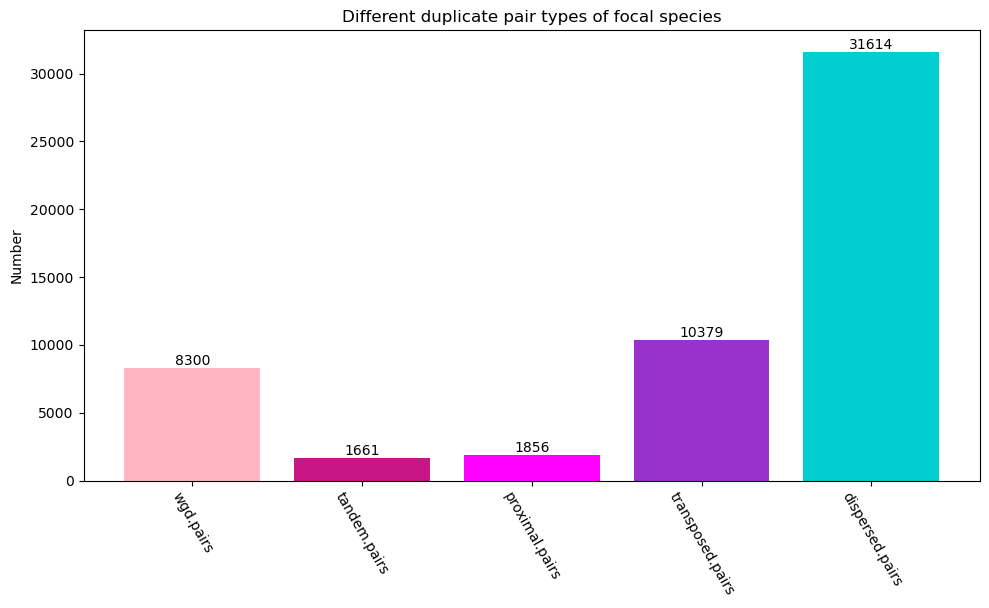
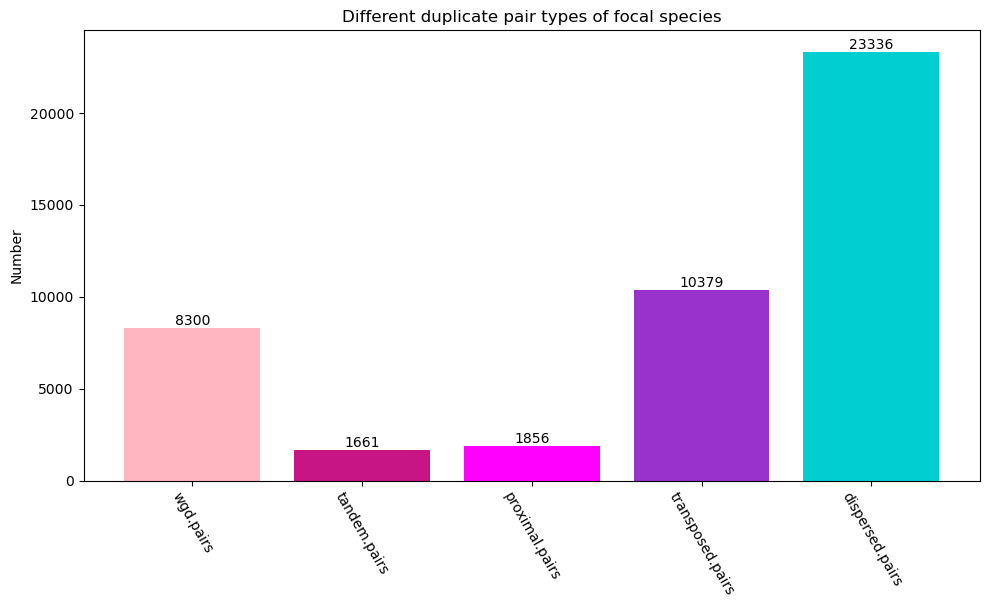
final class_gene

diff --git a/quota_anchor/lib/classification_gene.py b/quota_anchor/lib/classification_gene.py
@@ -128,6 +128,7 @@ def transposed_pre_df(ref_gene, ref_chr, ref_order, ref_start, query_gene, query
     return pre_df
 
 def transposed_pre_df_unique(ref_gene, ref_chr, ref_order, ref_start, query_gene, query_chr, query_order, query_start, bitscore_dict, identity_dict, pre_df, line_bitscore, line_identity, anc, homo_gn_md):
+    # TODO:
     if not anc[ref_gene] and anc[query_gene] and homo_gn_md[ref_gene] not in [1, 2, 3] and homo_gn_md[query_gene] not in [2, 3]:
         try:
             avg_bs = (float(bitscore_dict[query_gene + '\t' + ref_gene]) + float(
@@ -155,8 +156,8 @@ def transposed_pre_df_unique(ref_gene, ref_chr, ref_order, ref_start, query_gene
                 pre_df.append([query_gene, query_chr, query_order, query_start, ref_gene, ref_chr, ref_order, ref_start, float(line_bitscore), float(line_identity)])
     return pre_df
 
-def get_used_dict(wgd_pair_set, tandem_pair_set, proximal_pair_set, transposed_pair_set, used_gp_dict):
-    used_gp_set = wgd_pair_set.union(tandem_pair_set, proximal_pair_set, transposed_pair_set)
+def get_used_dict(wgd_pair_set, tandem_pair_set, fake_proximal_pair_set, transposed_pair_set, used_gp_dict):
+    used_gp_set = wgd_pair_set.union(tandem_pair_set, fake_proximal_pair_set, transposed_pair_set)
     for pair in used_gp_set:
         used_gp_dict[pair] = True
     return used_gp_dict
@@ -295,6 +296,7 @@ class ClassGene:
             for line in data:
                 # refGene refChr refId refStart refEnd refStrand// queryGene queryChr queryId queryStart queryEnd  queryStrand// bitscore identity
                 ref_gene, ref_chr, ref_order, ref_start, query_gene, query_chr, query_order, query_start = read_data_line(line)
+                # Remove the constraint that the gene pair cannot have been used by previous process
                 tandem_condition, homo_gn_md, anc, used_gp_dict = tandem_init(ref_gene, ref_chr, ref_order, query_gene, query_chr, query_order, homo_gn_md, anc, used_gp_dict)
 
                 if tandem_condition:
@@ -316,6 +318,7 @@ class ClassGene:
                             tandem_pair_file.write(query_gene + "\t" + output_prefix + "-" + query_chr + "-" + query_order + "-" + query_start + "\t" +
                                                    ref_gene + "\t" + output_prefix + "-" + ref_chr + "-" + ref_order + "-" + ref_start + "\n")
                             tandem_pair_number += 1
+                            # Remove the constraint that the gene cannot be the wgd gene
                             tandem_gene_set, tandem_gene_number, homo_gn_md = write_gene_to_file(ref_gene, ref_chr, ref_order, ref_start, homo_gn_md,
                                                                                                 tandem_gene_file, tandem_gene_set, output_prefix, tandem_gene_number, mode)
                             tandem_gene_set, tandem_gene_number, homo_gn_md = write_gene_to_file(query_gene, query_chr, query_order, query_start, homo_gn_md,
@@ -323,13 +326,14 @@ class ClassGene:
                 bar()
         tandem_gene_file.close()
         tandem_pair_file.close()
+
         return homo_gn_md, tandem_pair_set, tandem_pair_number, tandem_gene_number, anc, used_gp_dict
 
     @staticmethod
     def proximal_process(data, proximal_pair_file, proximal_gene_file, output_prefix, proximal_threshold, homo_gn_md):
         logger.info('Identify proximal genes/pairs start.')
         mode = 3
-        proximal_gene_set, proximal_pair_set = set(), set()
+        proximal_gene_set, fake_proximal_pair_set = set(), set()
         proximal_gene_number, proximal_pair_number = 0, 0
         proximal_pre_df = []
         
@@ -346,6 +350,7 @@ class ClassGene:
                 ref_gene, ref_chr, ref_order, ref_start, query_gene, query_chr, query_order, query_start = read_data_line(line)
                 proximal_condition1 = ref_chr == query_chr
                 proximal_condition2 = 1 < abs(int(ref_order) - int(query_order)) <= proximal_threshold
+                # Remove the constraint that the gene pair cannot have been used by previous process
                 if proximal_condition2 and proximal_condition1:
                     if int(ref_order) - int(query_order) < 0:
                         proximal_pre_df.append([ref_gene, ref_chr, ref_order, ref_start, query_gene, query_chr, query_order, query_start ,int(query_order) - int(ref_order)])
@@ -355,6 +360,12 @@ class ClassGene:
 
         df = pd.DataFrame(proximal_pre_df, columns=['Duplicate1', 'chr1', 'order1', 'start1', 'Duplicate2', 'chr2', 'order2' ,'start2', 'Distance'])
         df = df.drop_duplicates(subset=['Duplicate1', 'Duplicate2'])
+
+        df['pair'] = df['Duplicate1'] + '\t' + df['Duplicate2']
+        df['pair_r'] = df['Duplicate2'] + '\t' + df['Duplicate1']
+        fake_proximal_pair_set.update(df['pair'])
+        fake_proximal_pair_set.update(df['pair_r'])
+
         min_values = df.groupby('Duplicate1')['Distance'].transform('min')
         df_filtered = df[df['Distance'] == min_values]
         df_filtered.reset_index(drop=True, inplace=True)
@@ -363,11 +374,10 @@ class ClassGene:
         time_now = dt.strftime('%Y/%m/%d %H:%M:%S')
         with alive_bar(len(df_filtered), title=f"[{time_now} INFO Step two]", bar="bubbles", spinner="waves") as bar:
             for index, line in df_filtered.iterrows():
-                dup_gene1, chr1, order1, start1, dup_gene2, chr2, order2, start2, distance = list(line)
-                proximal_pair_set.add(dup_gene1 + "\t" + dup_gene2)
-                proximal_pair_set.add(dup_gene2 + "\t" + dup_gene1)
+                dup_gene1, chr1, order1, start1, dup_gene2, chr2, order2, start2, distance, _, _ = list(line)
                 proximal_pair_file.write(dup_gene1 + "\t" + output_prefix + "-" + chr1 + "-" + order1 + "-" + start1
                                     + "\t" + dup_gene2 + "\t" + output_prefix + "-" + chr2 + "-" + order2 + "-" + start2 + "\n")
+                # Remove the constraint that the gene cannot be the wgd gene
                 proximal_gene_set, proximal_gene_number, homo_gn_md = write_gene_to_file(dup_gene1, chr1, order1, start1, homo_gn_md,
                                                                                             proximal_gene_file, proximal_gene_set, output_prefix, proximal_gene_number, mode)
                 proximal_gene_set, proximal_gene_number, homo_gn_md = write_gene_to_file(dup_gene2, chr2, order2 ,start2, homo_gn_md,
@@ -381,7 +391,7 @@ class ClassGene:
         else:
             proximal_pair_number = index + 1
 
-        return homo_gn_md, proximal_pair_set, proximal_pair_number, proximal_gene_number
+        return homo_gn_md, fake_proximal_pair_set, proximal_pair_number, proximal_gene_number
 
     @staticmethod
     def transposed_process(wgd_gene_set, query_ref_collinearity, data, transposed_pair_file, transposed_gene_file, output_prefix, seg_anc, proximal_threshold, homo_gn_md, anc):
@@ -422,6 +432,7 @@ class ClassGene:
                     if abs(int(ref_order) - int(query_order)) > proximal_threshold:
                         pre_df = transposed_pre_df(ref_gene, ref_chr, ref_order, ref_start, query_gene, query_chr, query_order, query_start, bitscore_dict, identity_dict, pre_df, line[12], line[13], anc, homo_gn_md)
                 bar()
+
             df = pd.DataFrame(pre_df, columns=['Duplicate', 'chr1', 'order1' ,'start1', 'Parental', 'chr2', 'order2' ,'start2', 'bitscore', 'identity'])
             df = df.drop_duplicates(subset=['Duplicate', 'Parental'])
             max_values = df.groupby('Duplicate')['bitscore'].transform('max')
@@ -496,10 +507,13 @@ class ClassGene:
         with alive_bar(len(df_filtered), title=f"[{time_now} INFO] Step two", bar="bubbles", spinner="waves") as bar:
             for index, line in df_filtered.iterrows():
                 dup_gene1, chr1, order1 ,start1, dup_gene2, chr2, order2 ,start2, bitscore, identity = list(line)
-                dispersed_pair_set.add(dup_gene1 + '\t' + dup_gene2)
-                dispersed_pair_set.add(dup_gene2 + '\t' + dup_gene1)
-                dispersed_pair_file.write(dup_gene2 + "\t" + output_prefix + "-" + chr2 + "-" + order2 + "-" + start2 + "\t" +
-                                          dup_gene1 + "\t" + output_prefix + "-" + chr1 + "-" + order1 + "-" + start1 + "\n")
+                if dup_gene2 + '\t' + dup_gene1 not in dispersed_pair_set:
+                    # rm ab ba
+                    dispersed_pair_number += 1
+                    dispersed_pair_file.write(dup_gene2 + "\t" + output_prefix + "-" + chr2 + "-" + order2 + "-" + start2 + "\t" +
+                                              dup_gene1 + "\t" + output_prefix + "-" + chr1 + "-" + order1 + "-" + start1 + "\n")
+                    dispersed_pair_set.add(dup_gene1 + '\t' + dup_gene2)
+                    dispersed_pair_set.add(dup_gene2 + '\t' + dup_gene1)
                 if homo_gn_md[dup_gene1] not in [1, 2, 3, 4] and dup_gene1 not in dispersed_gene_set:
                     dispersed_gene_set.add(dup_gene1)
                     dispersed_gene_file.write(dup_gene1 + "\t" + output_prefix + "-" + chr1 + "-" + order1 + "-" + start1 + "\n")
@@ -514,8 +528,6 @@ class ClassGene:
 
         if len(df_filtered) == 0:
             dispersed_pair_number = 0
-        else:
-            dispersed_pair_number = index + 1
         return dispersed_gene_set, dispersed_pair_number, dispersed_gene_number
 
     @staticmethod
@@ -592,8 +604,9 @@ class ClassGene:
         homo_gn_md, tandem_pair_set, tandem_pair_number, tandem_gene_number, anc, used_gp_dict  = self.tandem_process(data, self.tandem_pair_file, self.tandem_gene_file, self.output_prefix)
         logger.info("Identify tandem genes/pairs finished!")
         #fourth
+
         homo_gn_md = self.merge_mode(homo_gn_md, wgd_md)
-        homo_gn_md, proximal_pair_set, proximal_pair_number, proximal_gene_number = self.proximal_process(data, self.proximal_pair_file, self.proximal_gene_file, self.output_prefix,
+        homo_gn_md, fake_proximal_pair_set, proximal_pair_number, proximal_gene_number = self.proximal_process(data, self.proximal_pair_file, self.proximal_gene_file, self.output_prefix,
                                                                             self.proximal_max_distance, homo_gn_md)
         logger.info("Identify proximal genes/pairs finished!")
         #fifth
@@ -602,7 +615,7 @@ class ClassGene:
               self.seg_anc, self.proximal_max_distance, homo_gn_md, anc)
         logger.info("Identify transposed genes/pairs finished!")
         #sixth
-        used_gp_dict = get_used_dict(wgd_pair_set, tandem_pair_set, proximal_pair_set, transposed_pair_set, used_gp_dict)
+        used_gp_dict = get_used_dict(wgd_pair_set, tandem_pair_set, fake_proximal_pair_set, transposed_pair_set, used_gp_dict)
         _, dispersed_pair_number, dispersed_gene_number = self.dispersed_process(data, self.dispersed_pair_file, self.dispersed_gene_file, self.output_prefix, homo_gn_md, used_gp_dict, bitscore_dict, identity_dict)
         logger.info("Identify dispersed genes/pairs finished!")
         #seventh
@@ -627,7 +640,7 @@ class ClassGene:
                        [self.wgd_pair_file, self.tandem_pair_file, self.proximal_pair_file, self.transposed_pair_file, self.dispersed_pair_file])
         logger.info("Count and visualize the number of genes and gene pairs!")
         #plot
-        base.ClsVis(self.stats_file, [self.stats_file + ".gene.png", self.stats_file + ".pair.png"]).run()
+        base.ClsVis(self.stats_file, [self.stats_file + ".gene.png", self.stats_file + ".pair.png"], False).run()
         logger.info("Gene and gene pair classification finished!")
 
 
@@ -732,8 +745,9 @@ class ClassGeneUnique:
                 ref_gene, ref_chr, ref_order, ref_start, query_gene, query_chr, query_order, query_start = read_data_line(line)
                 tandem_condition, homo_gn_md, anc, used_gp_dict = tandem_init(ref_gene, ref_chr, ref_order, query_gene, query_chr, query_order, homo_gn_md, anc, used_gp_dict)
                 if tandem_condition:
+                    homo_gn_md[ref_gene] = mode
+                    homo_gn_md[query_gene] = mode
                     if int(ref_order) - int(query_order) < 0:
-                        # unique is stricter
                         if ref_gene not in wgd_gene_set and query_gene not in wgd_gene_set and \
                                ref_gene + "\t" + query_gene not in tandem_pair_set:
                             tandem_pair_set.add(ref_gene + "\t" + query_gene)
@@ -742,6 +756,7 @@ class ClassGeneUnique:
                                              + "\t" + query_gene + "\t" + output_prefix + "-" + query_chr + "-" + query_order + "-"
                                              + query_start + "\n")
                             tandem_pair_number += 1
+                            # The tandem gene needs to be in a tandem pair
                             tandem_gene_set, tandem_gene_number, homo_gn_md = write_gene_to_file(ref_gene, ref_chr, ref_order, ref_start, homo_gn_md,
                                                                                                 tandem_gene_file, tandem_gene_set, output_prefix, tandem_gene_number, mode)
                             tandem_gene_set, tandem_gene_number, homo_gn_md = write_gene_to_file(query_gene, query_chr, query_order, query_start, homo_gn_md,
@@ -755,11 +770,13 @@ class ClassGeneUnique:
                                              + query_start + "\t" + ref_gene + "\t" + output_prefix
                                              + "-" + ref_chr + "-" + ref_order + "-" + ref_start + "\n")
                             tandem_pair_number += 1
+                            # The tandem gene needs to be in a tandem pair
                             tandem_gene_set, tandem_gene_number, homo_gn_md = write_gene_to_file(ref_gene, ref_chr, ref_order, ref_start, homo_gn_md,
                                                                                                 tandem_gene_file, tandem_gene_set, output_prefix, tandem_gene_number, mode)
                             tandem_gene_set, tandem_gene_number, homo_gn_md = write_gene_to_file(query_gene, query_chr, query_order, query_start, homo_gn_md,
                                                                                                 tandem_gene_file, tandem_gene_set, output_prefix, tandem_gene_number, mode)
                 bar()
+
         tandem_gene_file.close()
         tandem_pair_file.close()
         return homo_gn_md, tandem_pair_set, tandem_pair_number, tandem_gene_number, anc, used_gp_dict
@@ -786,6 +803,10 @@ class ClassGeneUnique:
                 proximal_condition1 = ref_chr == query_chr
                 proximal_condition2 = 1 < abs(int(ref_order) - int(query_order)) <= proximal_threshold
                 if proximal_condition2 and proximal_condition1:
+                    if homo_gn_md[ref_gene] == 0:
+                        homo_gn_md[ref_gene] = mode
+                    if homo_gn_md[query_gene] == 0:
+                        homo_gn_md[query_gene] = mode
                     if int(ref_order) - int(query_order) < 0:
                         if homo_gn_md[ref_gene] not in [1, 2] and homo_gn_md[query_gene] not in [1, 2]:
                             proximal_pre_df.append([ref_gene, ref_chr, ref_order, ref_start, query_gene, query_chr, query_order, query_start ,int(query_order) - int(ref_order)])
@@ -808,7 +829,7 @@ class ClassGeneUnique:
                 proximal_pair_set.add(dup_gene2 + "\t" + dup_gene1)
                 proximal_pair_file.write(dup_gene1 + "\t" + output_prefix + "-" + chr1 + "-" + order1 + "-" +start1
                                     + "\t" + dup_gene2 + "\t" + output_prefix + "-" + chr2 + "-" + order2 + "-" + start2 + "\n")
-
+                # The proximal gene needs to be in a proximal pair
                 proximal_gene_set, proximal_gene_number, homo_gn_md = write_gene_to_file(dup_gene1, chr1, order1 ,start1, homo_gn_md,
                                                                                             proximal_gene_file, proximal_gene_set, output_prefix, proximal_gene_number, mode)
                 proximal_gene_set, proximal_gene_number, homo_gn_md = write_gene_to_file(dup_gene2, chr2, order2 ,start2, homo_gn_md,
@@ -861,6 +882,7 @@ class ClassGeneUnique:
                     if abs(int(ref_order) - int(query_order)) > proximal_threshold:
                         pre_df = transposed_pre_df_unique(ref_gene, ref_chr, ref_order, ref_start, query_gene, query_chr, query_order, query_start, bitscore_dict, identity_dict, pre_df, line[12], line[13], anc, homo_gn_md)
                 bar()
+
         df = pd.DataFrame(pre_df, columns=['Duplicate', 'chr1', 'order1' ,'start1', 'Parental', 'chr2', 'order2' ,'start2', 'bitscore', 'identity'])
         df = df.drop_duplicates(subset=['Duplicate', 'Parental'])
     
@@ -924,6 +946,7 @@ class ClassGeneUnique:
                             dispersed_pre_df.append([ref_gene, ref_chr, ref_order, ref_start, query_gene, query_chr, query_order, query_start, float(line[12]), float(line[13])])
                 bar()
         df = pd.DataFrame(dispersed_pre_df, columns=['Duplicate1', 'chr1', 'order1', 'start1', 'Duplicate2', 'chr2', 'order2', 'start2', 'bitscore', 'identity'])
+        # DupGen_finder-unique don't have this procedure
         max_values = df.groupby('Duplicate2')['bitscore'].transform('max')
         df_filtered_sub = df[df['bitscore'] == max_values]
         max_values_identity = df_filtered_sub.groupby('Duplicate2')['identity'].transform('max')
@@ -935,10 +958,13 @@ class ClassGeneUnique:
         with alive_bar(len(df_filtered), title=f"[{time_now} INFO] Step one", bar="bubbles", spinner="waves") as bar:
             for index, line in df_filtered.iterrows():
                 dup_gene1, chr1, order1, start1, dup_gene2, chr2, order2, start2, bitscore, identity = list(line)
-                dispersed_pair_set.add(dup_gene1 + '\t' + dup_gene2)
-                dispersed_pair_set.add(dup_gene2 + '\t' + dup_gene1)
-                dispersed_pair_file.write(dup_gene2 + "\t" + output_prefix + "-" + chr2 + "-" + order2 + "-" + start2 + "\t" +
-                                          dup_gene1 + "\t" + output_prefix + "-" + chr1 + "-" + order1 + "-" + start1 + "\n")
+                if dup_gene2 + '\t' + dup_gene1 not in dispersed_pair_set:
+                    # rm ab ba
+                    dispersed_pair_number += 1
+                    dispersed_pair_file.write(dup_gene2 + "\t" + output_prefix + "-" + chr2 + "-" + order2 + "-" + start2 + "\t" +
+                                              dup_gene1 + "\t" + output_prefix + "-" + chr1 + "-" + order1 + "-" + start1 + "\n")
+                    dispersed_pair_set.add(dup_gene1 + '\t' + dup_gene2)
+                    dispersed_pair_set.add(dup_gene2 + '\t' + dup_gene1)
 
                 dispersed_gene_set, dispersed_gene_number, homo_gn_md = write_gene_to_file(dup_gene1, chr1, order1, start1, homo_gn_md,
                                                                                             dispersed_gene_file, dispersed_gene_set, output_prefix, dispersed_gene_number, mode)
@@ -949,8 +975,6 @@ class ClassGeneUnique:
         dispersed_gene_file.close()
         if len(df_filtered) == 0:
             dispersed_pair_number = 0
-        else:
-            dispersed_pair_number = index + 1
         return dispersed_gene_set, dispersed_pair_number, dispersed_gene_number
 
     @staticmethod
@@ -1059,5 +1083,5 @@ class ClassGeneUnique:
                        [self.wgd_pair_file, self.tandem_pair_file, self.proximal_pair_file, self.transposed_pair_file, self.dispersed_pair_file])
         logger.info("Count and plot the number of gene pairs and genes!")
         #plot
-        base.ClsVis(self.stats_file, [self.stats_file + ".gene.png", self.stats_file + ".pair.png"]).run()
+        base.ClsVis(self.stats_file, [self.stats_file + ".gene.png", self.stats_file + ".pair.png"], True).run()
         logger.info("Gene and gene pairs classification finished!")

diff --git a/quota_anchor/lib/base.py b/quota_anchor/lib/base.py
@@ -10,12 +10,17 @@ class FileEmptyError(Exception):
 
 
 class ClsVis:
-    def __init__(self, stats_file, figure):
+    def __init__(self, stats_file, figure, flag):
         self.stats_file = stats_file
         self.output = figure
         self.ylab = "Number"
-        self.title1 = "Different gene types of focal species"
-        self.title2 = "Different duplicate pair types of focal species"
+        self.flag = flag
+        if not self.flag:
+            self.title1 = "Different gene types of focal species"
+            self.title2 = "Different duplicate pair types of focal species"
+        else:
+            self.title1 = "Different gene types of focal species(Unique)"
+            self.title2 = "Different duplicate pair types of focal species(Unique)"
 
     @staticmethod
     def get_data(stats_file):
